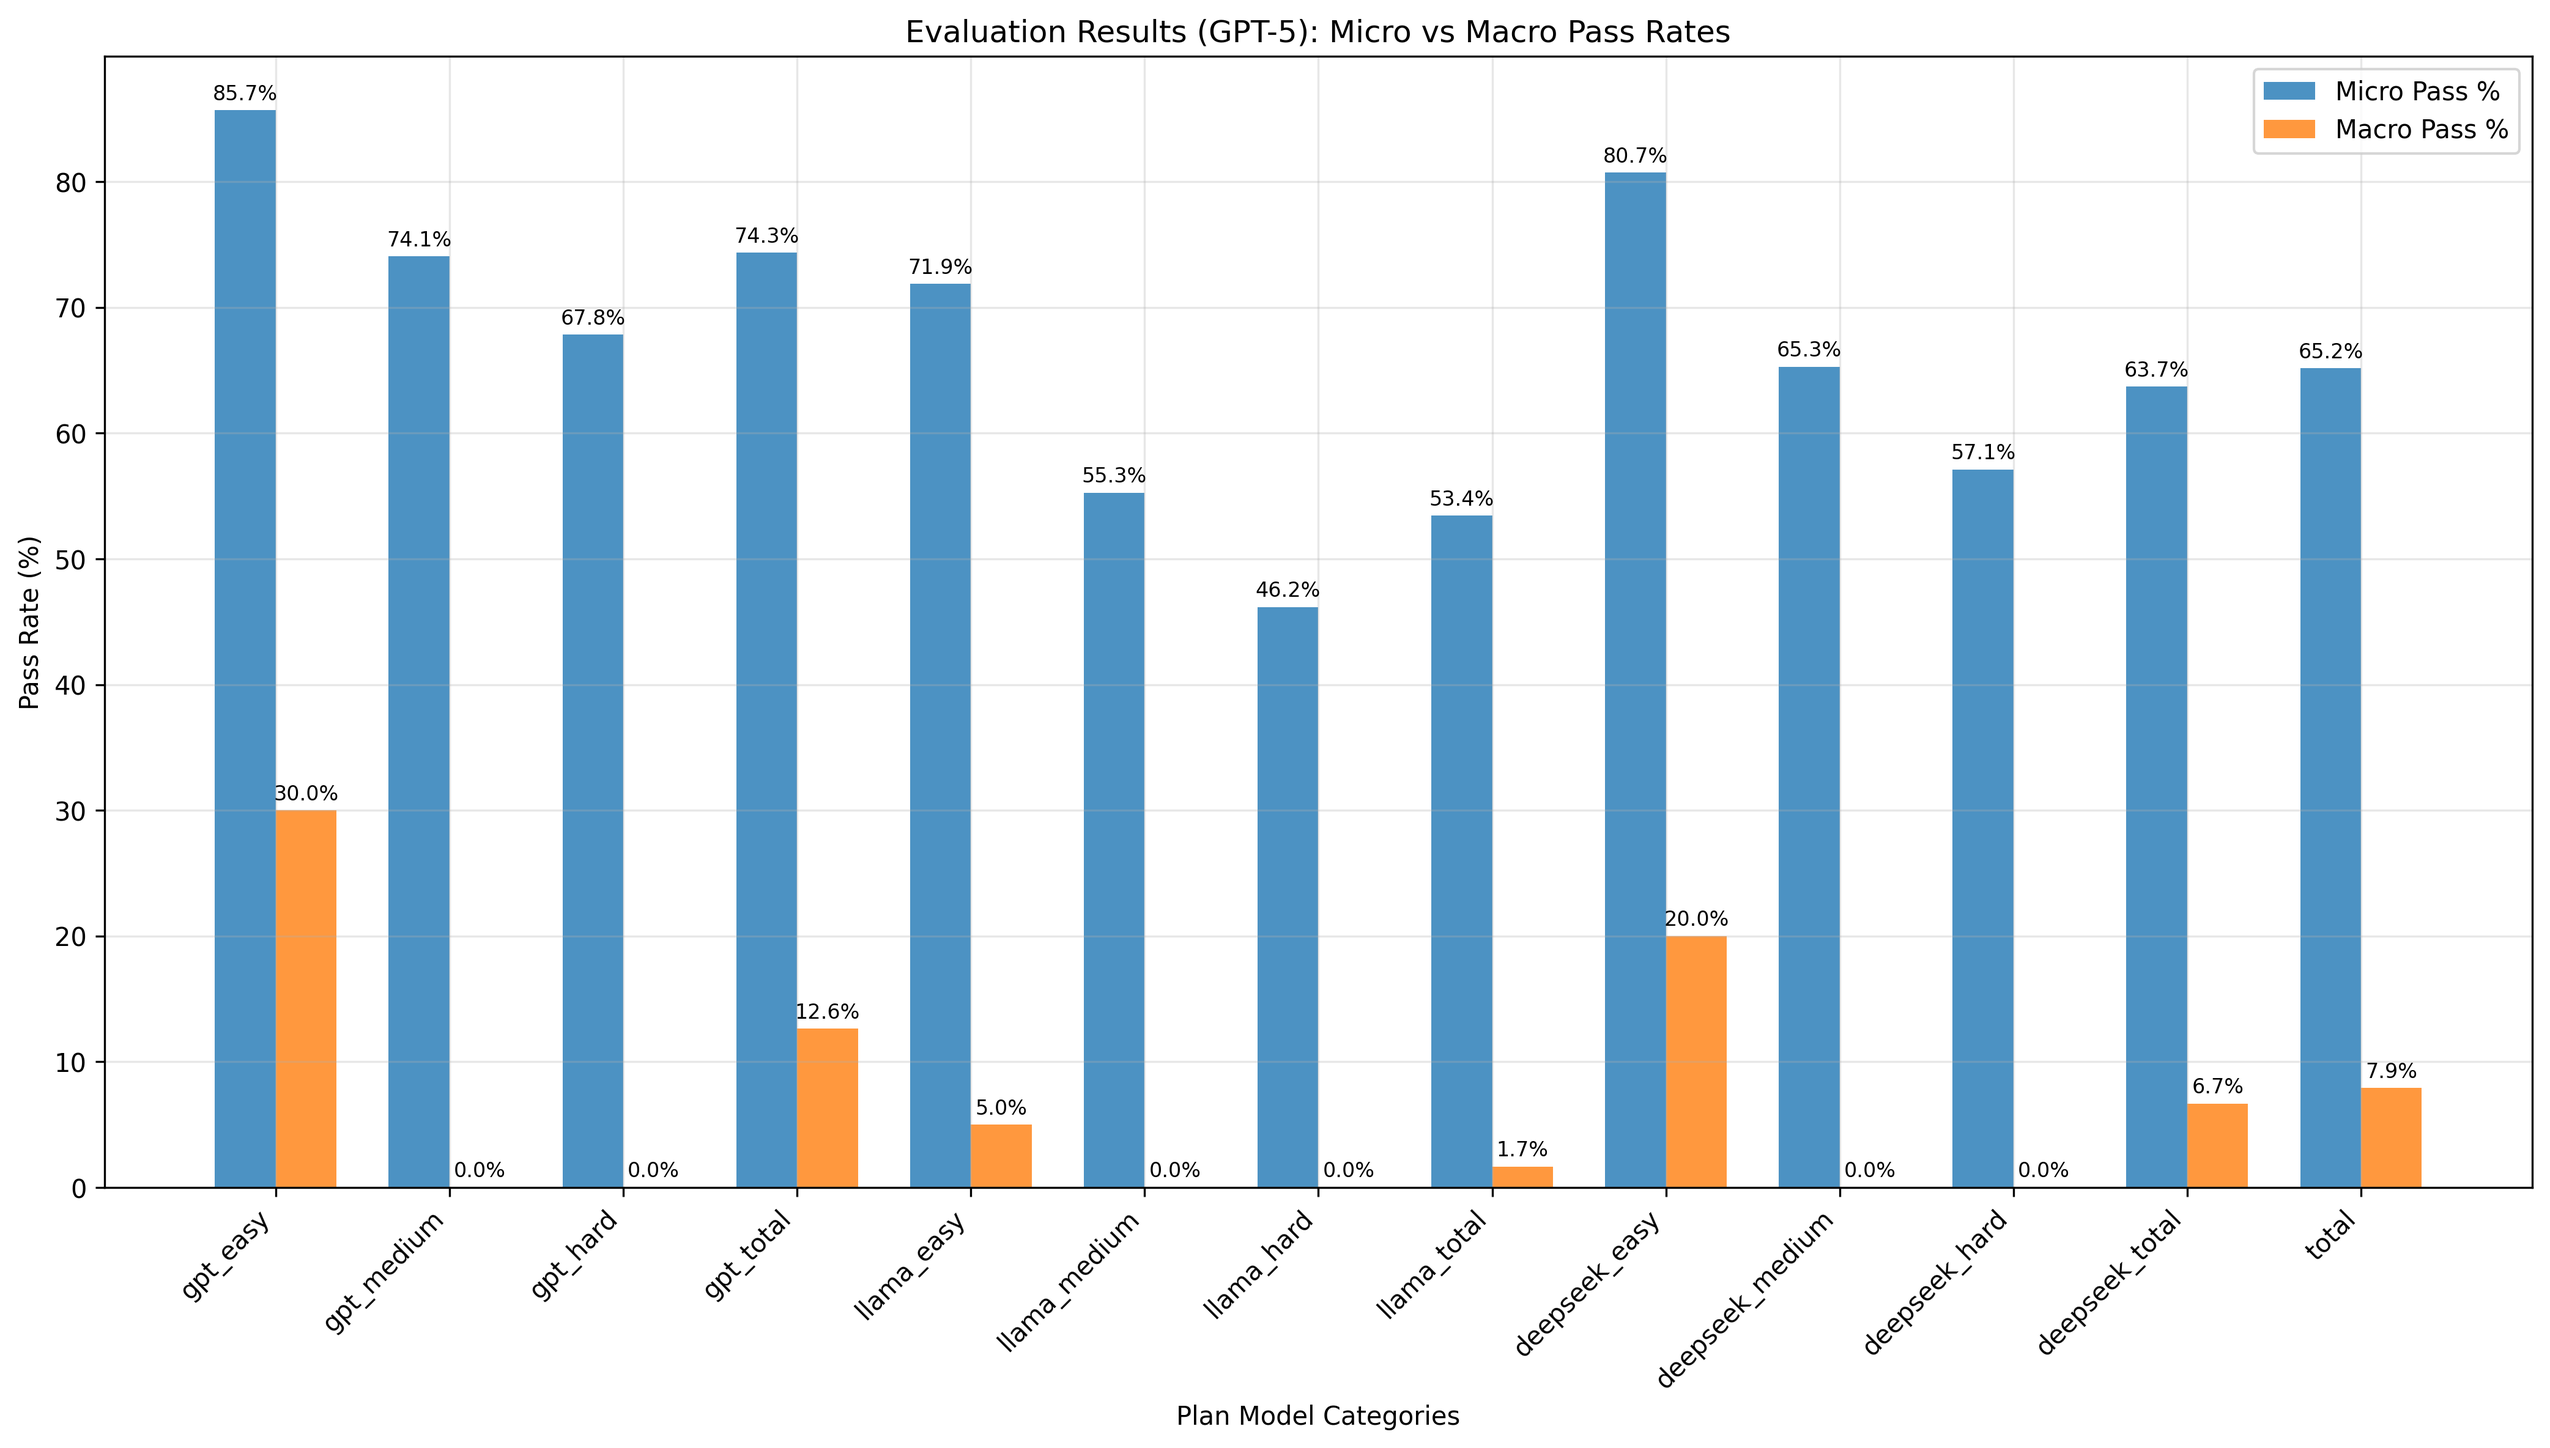
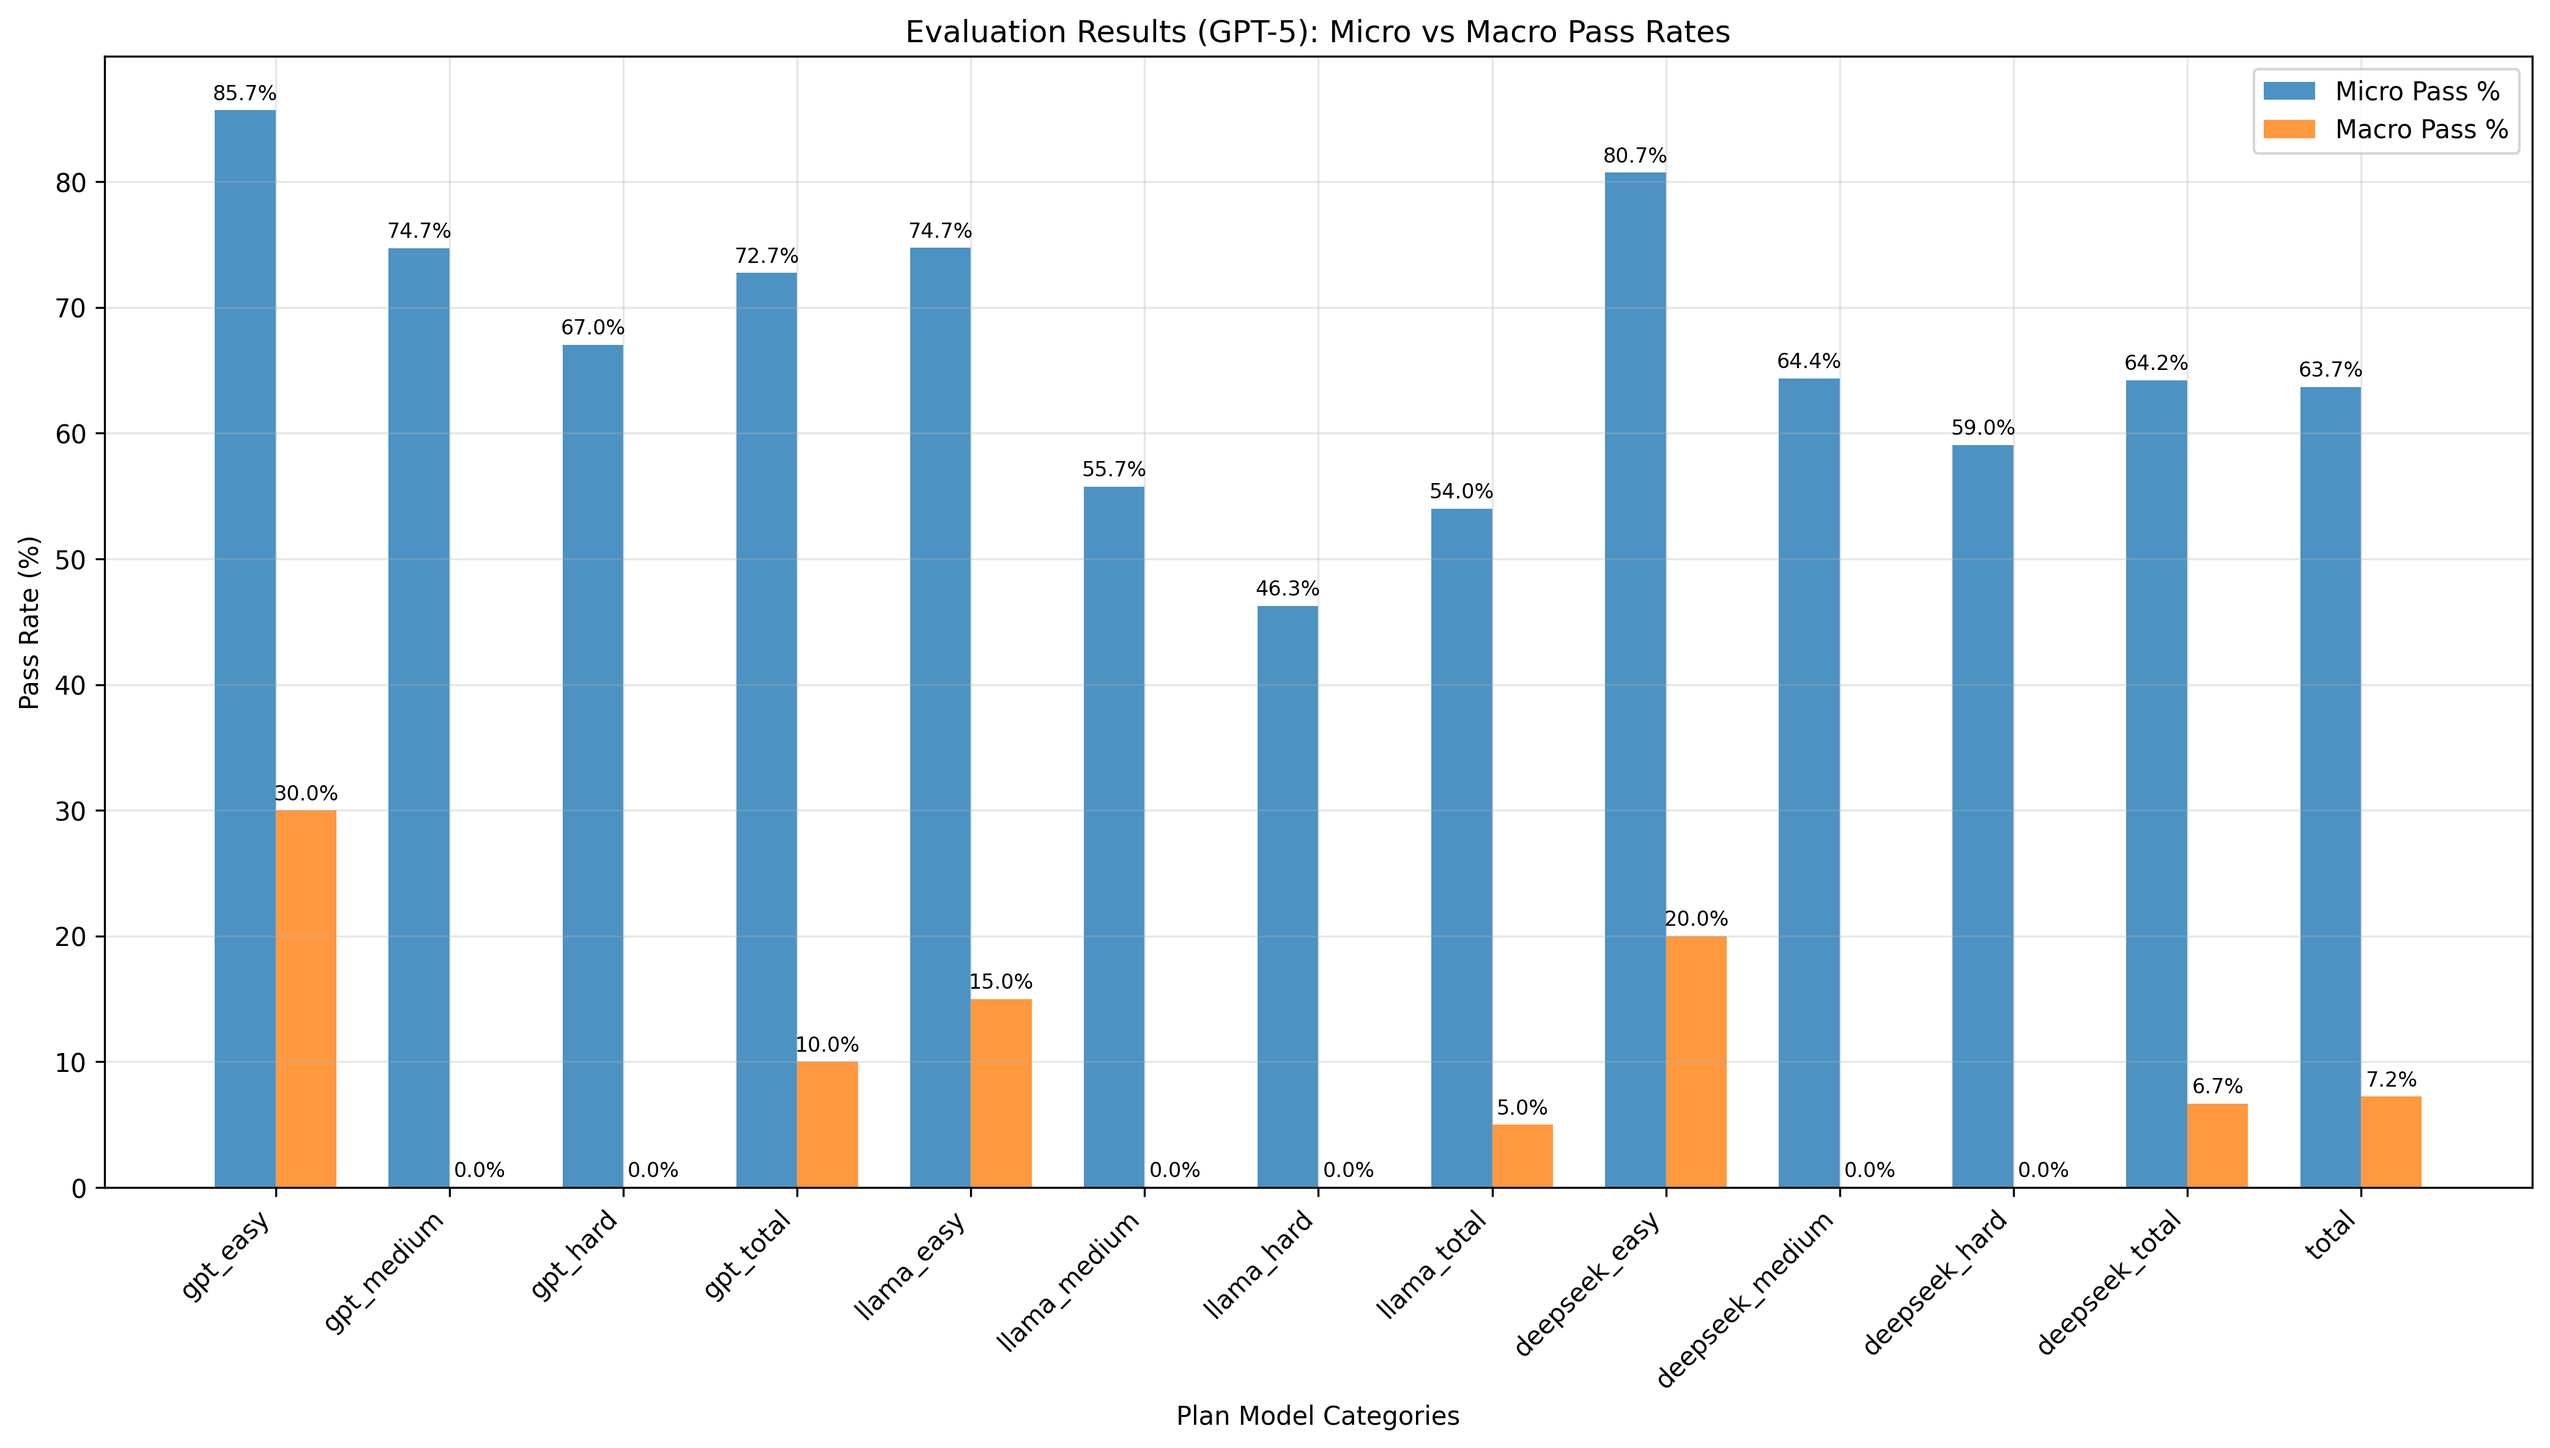
gpt-5 personalization evaluations

diff --git a/test-scripts/evaluate_personalization.py b/test-scripts/evaluate_personalization.py
@@ -99,6 +99,10 @@ def save_evaluation(category, plan_model, difficulty, eval_model, filename, eval
     # Use folder structure: personalization_evals/eval_model/category/plan_model/difficulty
     eval_model_folder = eval_model.replace("gpt-5", "gpt").replace("llama4", "llama")
     file_path = PERSONALIZATION_EVALS_DIR / eval_model_folder / category / plan_model / difficulty / eval_filename
+    
+    # Create directories if they don't exist
+    file_path.parent.mkdir(parents=True, exist_ok=True)
+    
     with open(file_path, 'w', encoding='utf-8') as f:
         json.dump(evaluation_data, f, ensure_ascii=False, indent=2)
 
@@ -159,45 +163,52 @@ def extract_itinerary_from_plan(plan_data):
     
     return itinerary_data
 
-async def evaluate_single_plan(plan_itinerary, user_history, query_id, plan_type, eval_model):
+async def evaluate_single_plan(plan_itinerary, user_history, query_id, plan_type, eval_model, query_text=""):
     """Evaluate personalization of a single plan against user history"""
     system_message = """
-    You are evaluating how well a travel itinerary matches a user's personal preferences based on their past activity history. Review the user's historical preferences and the generated itinerary, then provide a personalization score in the json format given below.
+    You are evaluating how well a travel itinerary is personalized based on a user's past activity history while keeping the constraints of their travel query in mind. The plan has been personalized to match the user's preferences within the bounds of what they specifically requested. Review the user's historical preferences, their travel query constraints, and the generated itinerary, then provide a personalization score in the json format given below.
 
 EVALUATION INSTRUCTIONS:
-Analyze how well the itinerary aligns with the user's demonstrated preferences by considering:
+Analyze how well the itinerary personalizes the user's request by considering:
 
-Place Type Preferences: Does the itinerary include types of places the user frequently visits (restaurants, museums, parks, attractions, etc.)?
+Query Constraint Adherence: The plan must fulfill the specific requirements mentioned in the travel query (destinations, activities, cuisine types, etc.)
 
-Time-of-Day Patterns: Are activities scheduled at times when the user typically prefers certain activities (morning museums, evening dining, etc.)?
-Cuisine Preferences: Do restaurant recommendations match the user's historical dining preferences and favorite cuisines?
+Personalized Selection Within Constraints: Within the query requirements, how well does the plan choose options that align with the user's historical preferences?
 
-Activity Style: Does the itinerary match the user's preferred activity intensity and style (cultural vs. adventure, indoor vs. outdoor, etc.)?
+Place Type Preferences: Does the itinerary include types of places the user frequently visits when selecting venues that meet the query constraints?
+
+Time-of-Day Patterns: Are activities scheduled at times when the user typically prefers certain activities?
+
+Cuisine Preferences: When restaurants are selected to meet query constraints, do they match the user's historical dining preferences?
+
+Activity Style: Does the itinerary match the user's preferred activity intensity and style while fulfilling the query requirements?
 
 Visit Duration Patterns: Are the recommended venues similar to places where the user typically spends time?
 
 
 SCORING CRITERIA:
-9-10: Excellent personalization - itinerary strongly reflects user's established preferences
-7-8: Good personalization - most recommendations align with user history
-5-6: Moderate personalization - some alignment but missing key preferences
-3-4: Poor personalization - limited connection to user's past behavior
-1-2: No personalization - itinerary ignores user preferences entirely
+9-10: Excellent personalization - itinerary strongly reflects user's established preferences while perfectly meeting query constraints
+7-8: Good personalization - most selections within query constraints align well with user history
+5-6: Moderate personalization - some alignment with preferences while meeting query requirements
+3-4: Poor personalization - meets query constraints but limited connection to user's past behavior
+1-2: No personalization - generic selections that ignore user preferences despite meeting query constraints
 
 RESPONSE FORMAT:
 {"score": x, "explanation": ""}
 
 Explanation:
+- How well the plan personalizes selections within the query constraints
 - What aspects match the user's preferences well
 - What aspects don't align with user history
-- Important user preferences that were ignored
+- Important user preferences that could have been incorporated while still meeting query requirements
 
 EXAMPLE:
-{"score": 8, "explanation": "Scheduled activities too early in the day when user historically prefers afternoon/evening activities. No outdoor activities despite user's consistent park visits and hiking history."}
+{"score": 8, "explanation": "Plan successfully incorporates user's preference for cultural attractions and fine dining within the query's museum and restaurant requirements. However, scheduled activities too early in the day when user historically prefers afternoon/evening activities. Could have selected more outdoor dining options that align with user's park visit history."}
 
     """
     
     user_message = f"""
+travel_query: {query_text}
 query_id: {query_id}
 user_history: {user_history}
 plan_type: {plan_type}
@@ -229,17 +240,17 @@ plan_itinerary: {json.dumps(plan_itinerary, indent=2)}
         print("=" * 60)
         return {"error": str(e)}
 
-async def evaluate_personalization(personalized_plan, non_personalized_plan, user_history, query_id, eval_model):
+async def evaluate_personalization(personalized_plan, non_personalized_plan, user_history, query_id, eval_model, query_text=""):
     """Evaluate personalization of two plans against user history separately"""
     
     # Evaluate personalized plan
     personalized_result = await evaluate_single_plan(
-        personalized_plan, user_history, query_id, "personalized", eval_model
+        personalized_plan, user_history, query_id, "personalized", eval_model, query_text
     )
     
     # Evaluate non-personalized plan
     non_personalized_result = await evaluate_single_plan(
-        non_personalized_plan, user_history, query_id, "non-personalized", eval_model
+        non_personalized_plan, user_history, query_id, "non-personalized", eval_model, query_text
     )
     
     # Combine results
@@ -320,6 +331,9 @@ async def process_evaluations_for_model(eval_model):
                     completed_evals += 1
                     continue
                 
+                # Get query text from queries_data
+                query_text = queries_data.get(query_id, {}).get("user_message", "")
+                
                 # Evaluate personalization
                 print(f"Evaluating personalization: {plan_model}/{difficulty}/query_{query_id} with {eval_model}")
                 evaluation = await evaluate_personalization(
@@ -327,7 +341,8 @@ async def process_evaluations_for_model(eval_model):
                     non_personalized_itinerary, 
                     user_history, 
                     query_id, 
-                    eval_model
+                    eval_model,
+                    query_text
                 )
                 
                 # Save evaluation data for both categories (same result applies to both)
@@ -364,12 +379,12 @@ async def run_evaluations():
     total_evals = total_combinations * len(EVAL_MODELS)
     print(f"Total personalization evaluations to perform: {total_evals} ({total_combinations} combinations × {len(EVAL_MODELS)} eval models)")
     
-    # Process evaluations for llama4 only (gpt-5 commented)
+    # Process evaluations
     tasks = []
     tasks.append(process_evaluations_for_model("llama4"))
     
     # Process GPT-5 evaluations (commented out)
-    # tasks.append(process_evaluations_for_model("gpt-5"))
+    tasks.append(process_evaluations_for_model("gpt-5"))
     
     await asyncio.gather(*tasks)
 

diff --git a/test-scripts/analyze_personalization_results.py b/test-scripts/analyze_personalization_results.py
@@ -258,21 +258,21 @@ def main():
     create_personalization_charts(llama_results, "llama4")
     create_win_rate_chart(llama_results, "llama4")
     
-    # Process GPT-5 evaluations (commented out)
-    # print("\n" + "="*50)
-    # print("Processing GPT-5 personalization evaluations...")
-    # gpt_results, gpt_evals = process_model_evaluations("gpt-5", "gpt")
-    # 
-    # # Save GPT-5 results to separate JSON
-    # gpt_json_path = RESULTS_DIR / "personalization_results_gpt5.json"
-    # with open(gpt_json_path, 'w', encoding='utf-8') as f:
-    #     json.dump(gpt_results, f, ensure_ascii=False, indent=2)
-    # print(f"GPT-5 personalization results saved to {gpt_json_path}")
-    # 
-    # # Create charts for GPT-5
-    # print("Creating charts for GPT-5 personalization evaluations...")
-    # create_personalization_charts(gpt_results, "gpt-5")
-    # create_win_rate_chart(gpt_results, "gpt-5")
+    # Process GPT-5 evaluations 
+    print("\n" + "="*50)
+    print("Processing GPT-5 personalization evaluations...")
+    gpt_results, gpt_evals = process_model_evaluations("gpt-5", "gpt")
+    
+    # Save GPT-5 results to separate JSON
+    gpt_json_path = RESULTS_DIR / "personalization_results_gpt5.json"
+    with open(gpt_json_path, 'w', encoding='utf-8') as f:
+        json.dump(gpt_results, f, ensure_ascii=False, indent=2)
+    print(f"GPT-5 personalization results saved to {gpt_json_path}")
+    
+    # Create charts for GPT-5
+    print("Creating charts for GPT-5 personalization evaluations...")
+    create_personalization_charts(gpt_results, "gpt-5")
+    create_win_rate_chart(gpt_results, "gpt-5")
     
     print(f"\nPersonalization analysis complete! Results saved in {RESULTS_DIR}")
 
